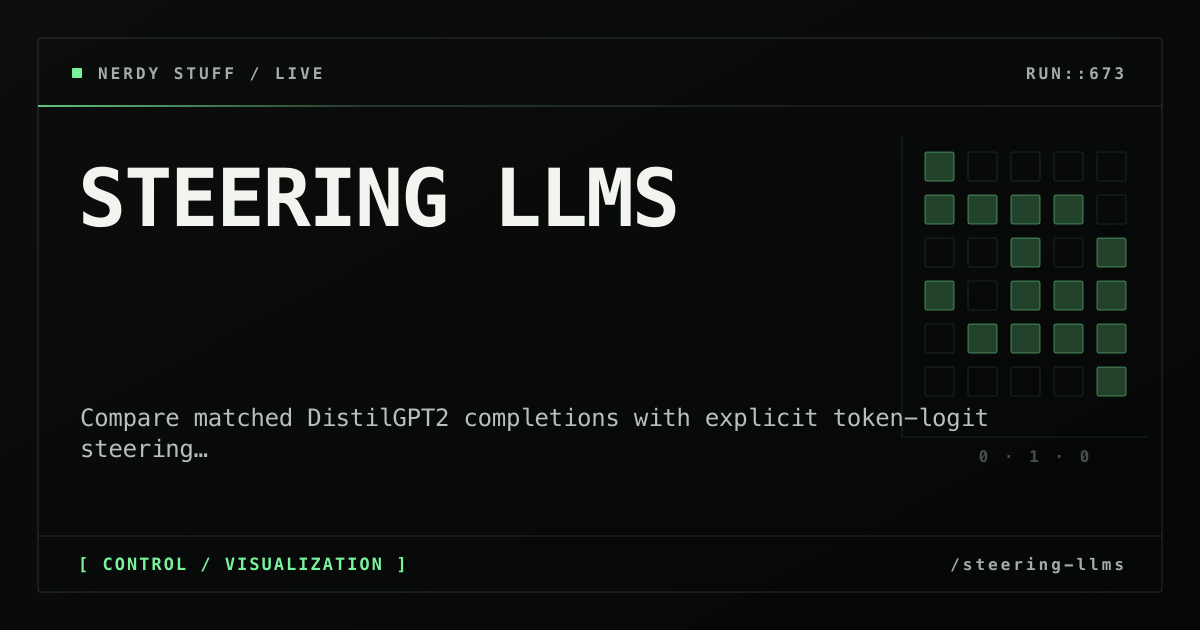
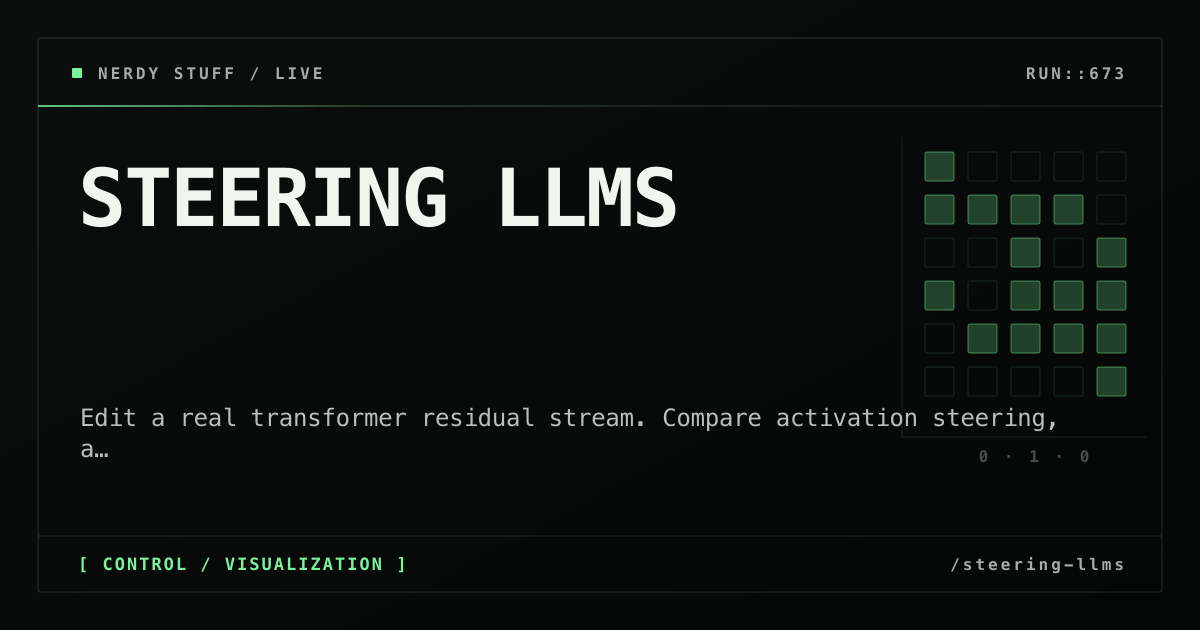
Keep corpus editing responsive and refresh the demo catalog

Changed region(s): [[0.0617, 0.6333, 0.8942, 0.7238]]

diff --git a/src/app/rusen-gram/page.tsx b/src/app/rusen-gram/page.tsx
@@ -112,7 +112,7 @@ export default function RusenGram() {
   useEffect(() => {
     if (!ready) return;
     setGenerated("");
-    setLoading(true);
+    setResult(null);
     send({ id: ++serial.current, action: "inspect", prompt, alpha });
   }, [ready, prompt, alpha]);
   const choose = (id: string) => {

diff --git a/src/app/globals.css b/src/app/globals.css
@@ -1,4 +1,8 @@
 @import "tailwindcss";
+/* Books, model runtimes and diagnostic artifacts never contain UI classes. */
+@source not "../../public/corpora";
+@source not "../../public/runtime";
+@source not "../../output";
 @custom-variant dark (&:where(.dark, .dark *));
 
 :root {

diff --git a/PROJECTS.md b/PROJECTS.md
@@ -32,8 +32,8 @@ Edit `src/content/projects.json`, then run `npm run projects:docs`.
 | Rusenizer | `live` | `/rusenizer` | Compare a Turkish-focused tokenizer with cl100k_base, inspect byte boundaries, and reproduce the bundled example comparison. |
 | Fourier Sketch | `live` | `/fourier-sketch` | Draw a path, then watch rotating Fourier epicycles reconstruct it one harmonic at a time. |
 | Optimizer Racetrack | `live` | `/optimizer-racetrack` | Release SGD, Momentum, RMSProp, and Adam on the same loss landscape and watch their paths, wobbles, and failures diverge. |
-| Steering LLMs | `live` | `/steering-llms` | Compare matched DistilGPT2 completions with explicit token-logit steering, fixed sampling settings, and a zero-strength control. |
-| RuseN-Gram | `live` | `/rusen-gram` | Build a word-level language model from an editable corpus. Inspect counts, suffix backoff, additive smoothing, and seeded generation. |
+| Steering LLMs | `live` | `/steering-llms` | Edit a real transformer residual stream. Compare activation steering, a prompt instruction, and the original model with inspectable contrast datasets. |
+| RuseN-Gram | `live` | `/rusen-gram` | Build a language model from 12 public-domain books and poetry collections. Compare voices, inspect N-gram counts, and generate from real literary corpora. |
 
 ## Bulletin
 
